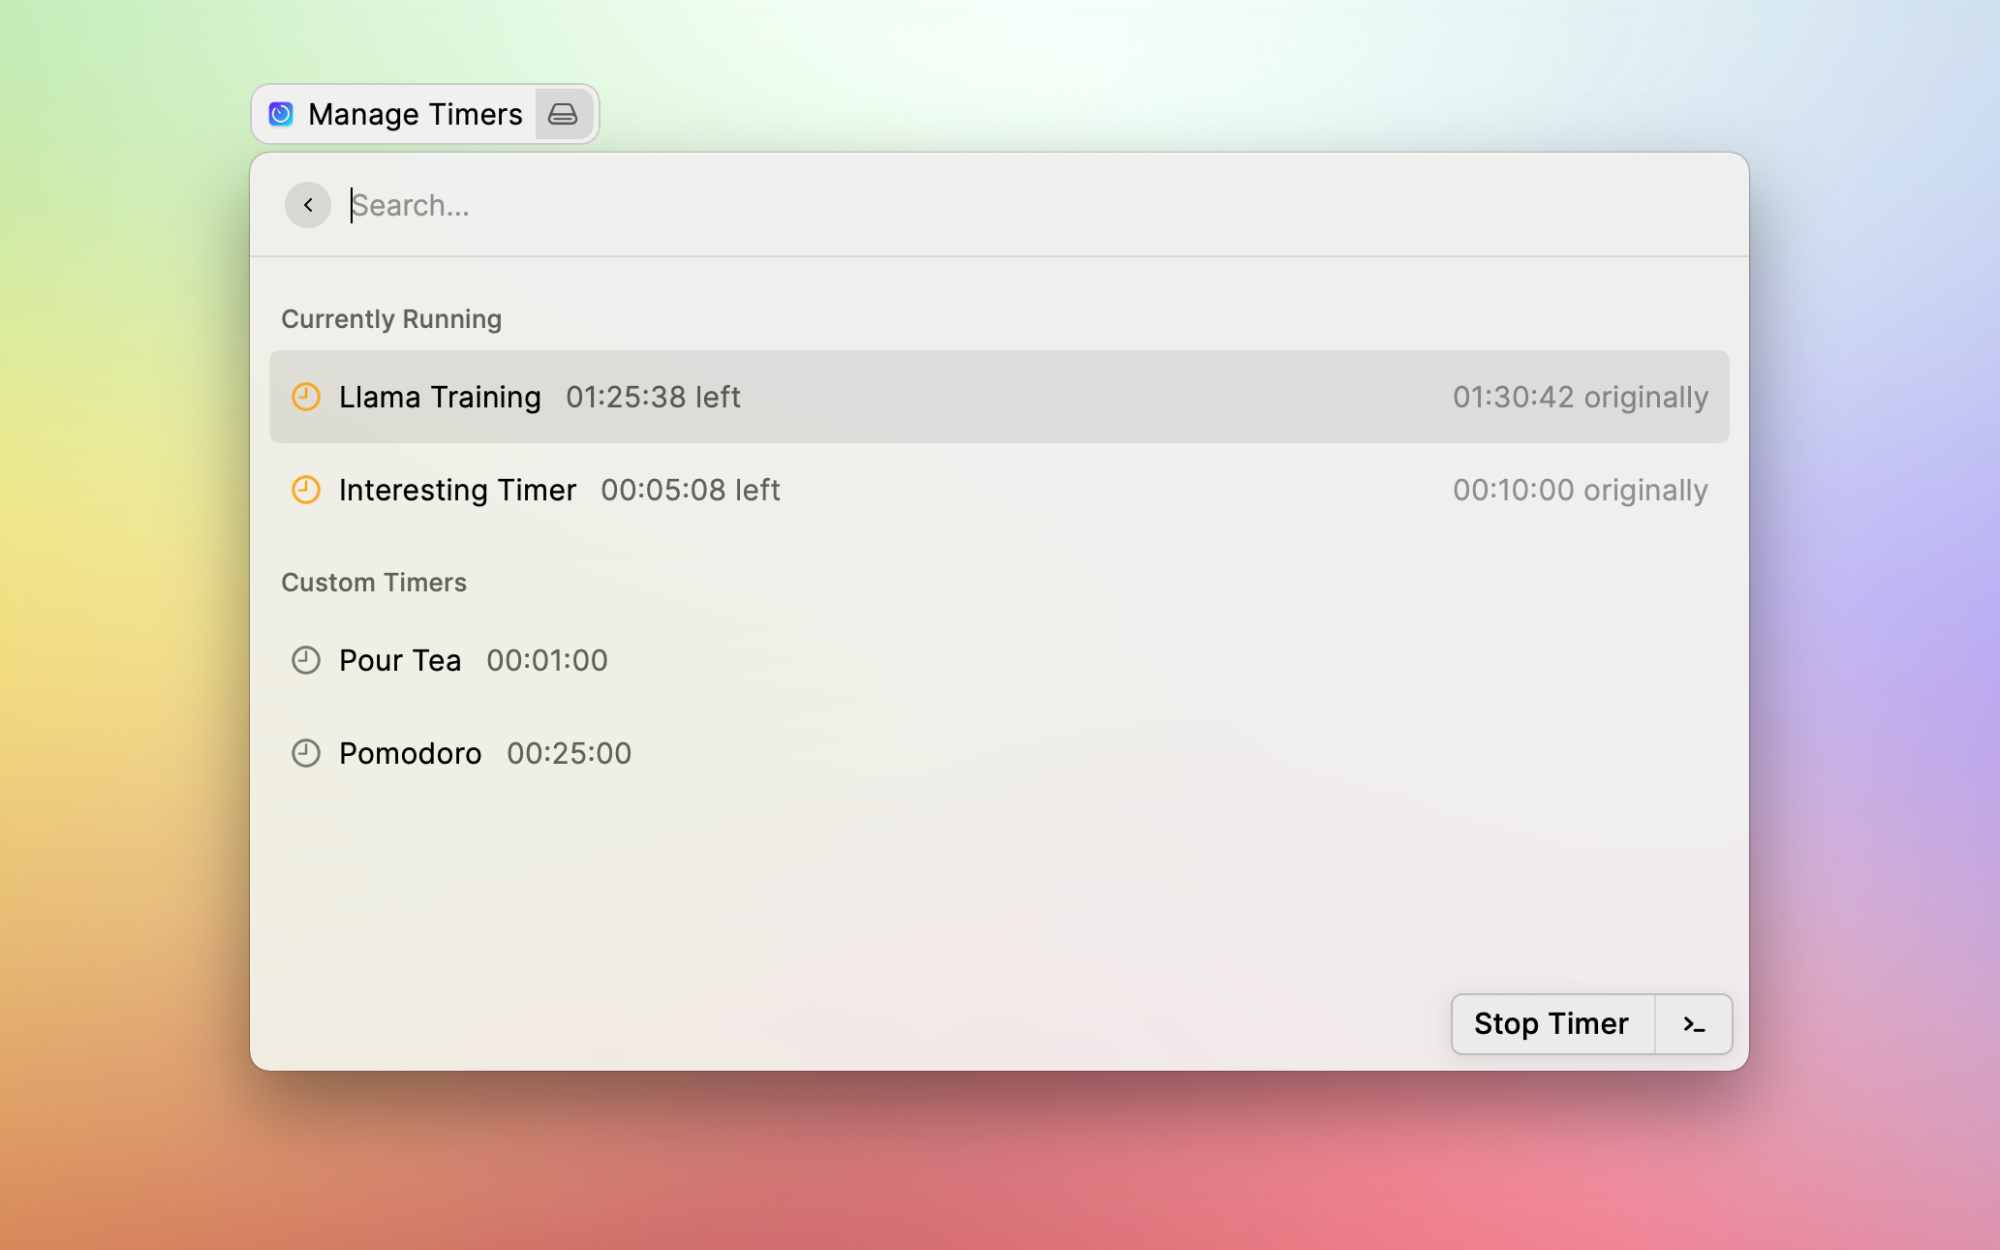
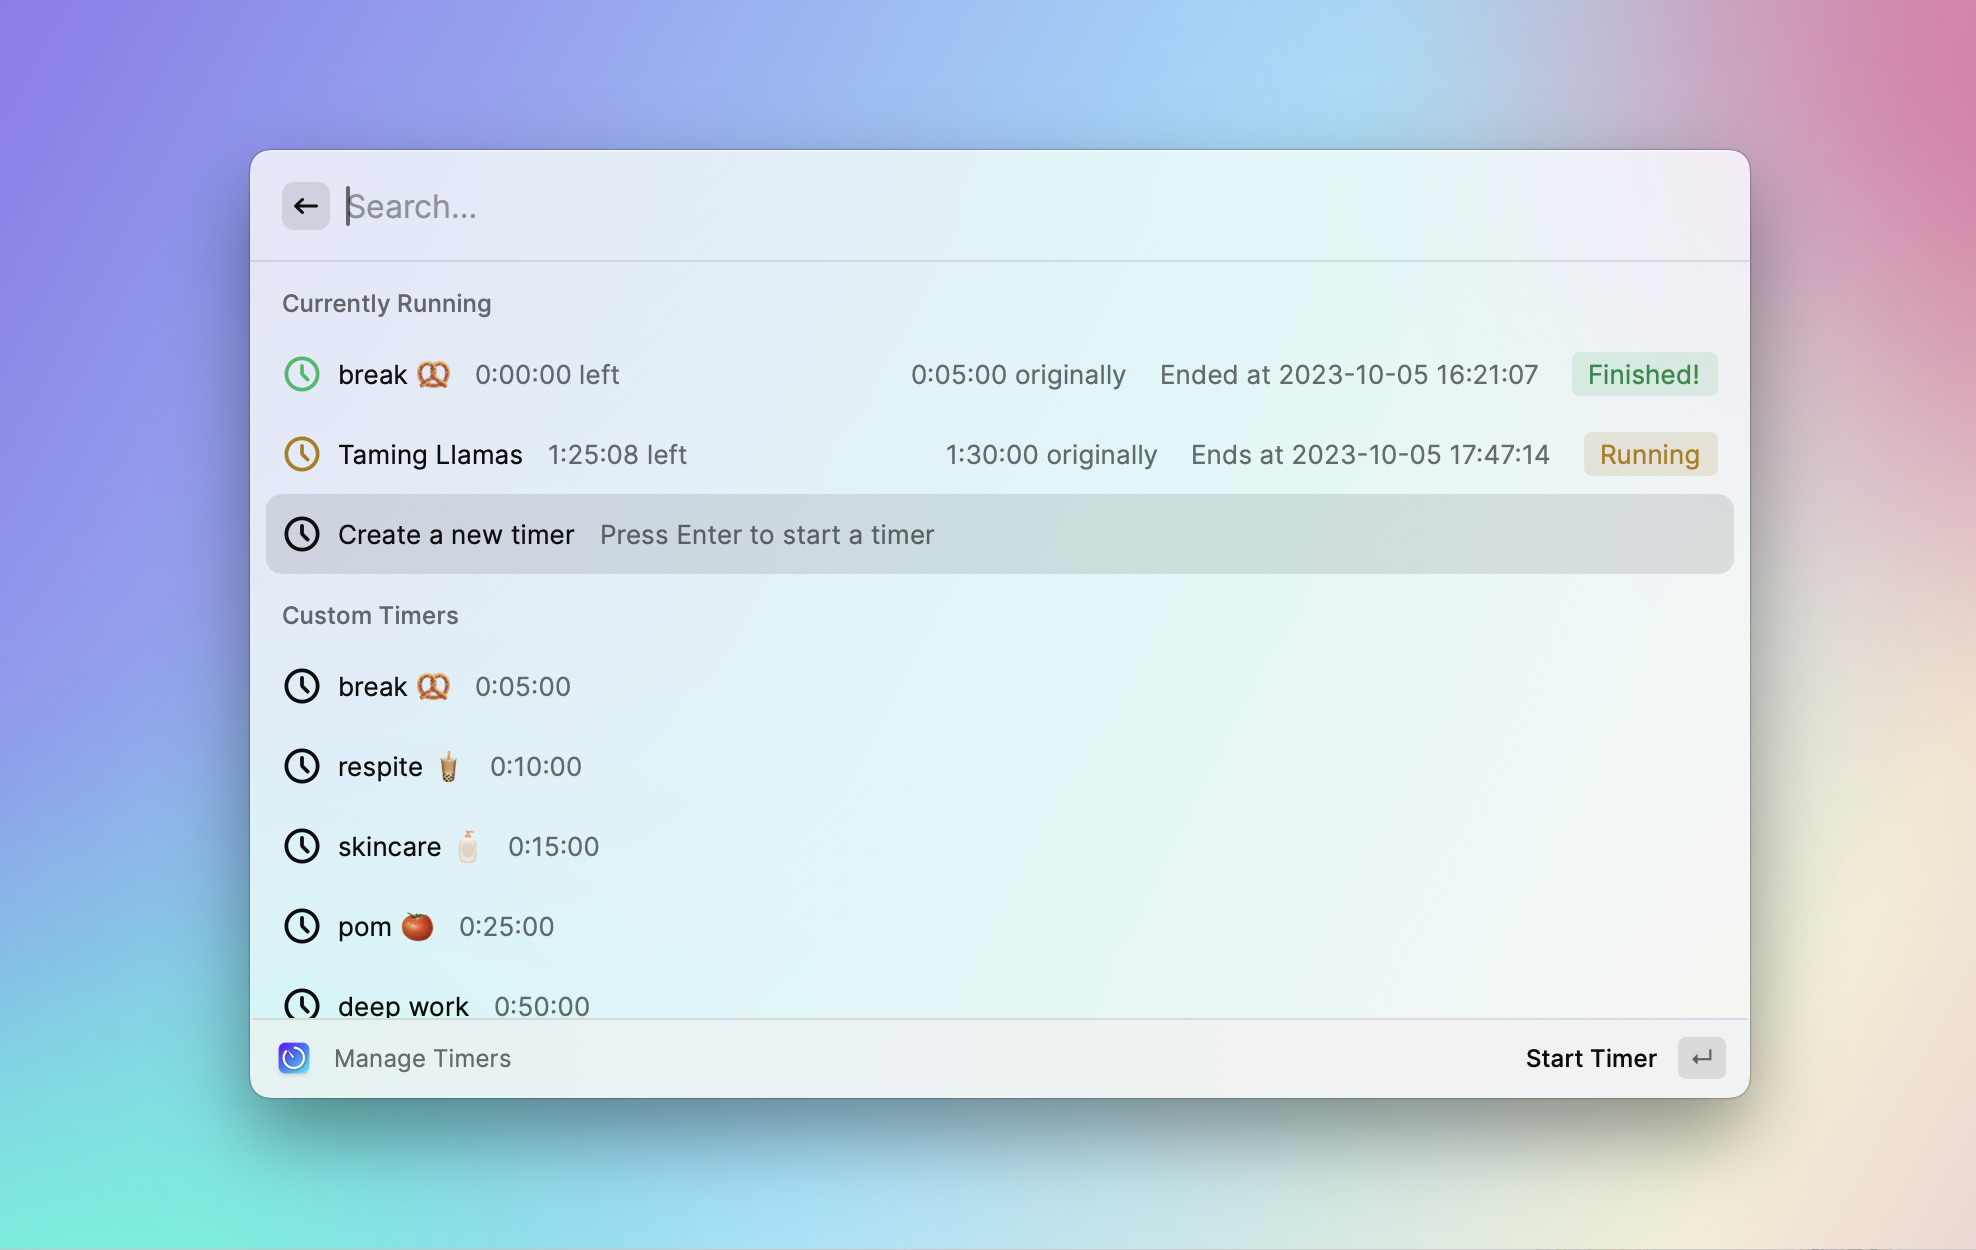
feat: new screenshots, stopRunningTimer cmd, changelog update

diff --git a/src/timerUtils.ts b/src/timerUtils.ts
@@ -62,7 +62,8 @@ async function startTimer(timeInSeconds: number, timerName = "Untitled", selecte
 }
 
 function stopTimer(timerFile: string) {
-  const deleteTimerCmd = `if [ -f "${timerFile}" ]; then rm "${timerFile}"; else echo "Timer deleted"; fi`;
+  const timerFilePath = environment.supportPath + "/" + timerFile;
+  const deleteTimerCmd = `if [ -f "${timerFilePath}" ]; then rm "${timerFilePath}"; else echo "Timer deleted"; fi`;
   const dismissFile = timerFile.replace(".timer", ".dismiss");
   const deleteDismissCmd = `if [ -f "${dismissFile}" ]; then rm "${dismissFile}"; else echo "Timer deleted"; fi`;
   execSync(deleteTimerCmd);

diff --git a/src/stopRunningTimer.ts b/src/stopRunningTimer.ts
@@ -1,0 +1,15 @@
+import { closeMainWindow, showHUD, showToast, Toast } from "@raycast/api";
+import { getTimers, stopTimer } from "./timerUtils";
+
+export default async () => {
+  const timers = getTimers();
+  if (timers.length === 0) {
+    return await showToast({
+      style: Toast.Style.Failure,
+      title: "No timers found!",
+    });
+  }
+  stopTimer(timers[0].originalFile);
+  await closeMainWindow();
+  showHUD(`Timer "${timers[0].name}" stopped!`);
+};

diff --git a/src/hooks/useTimers.ts b/src/hooks/useTimers.ts
@@ -1,4 +1,3 @@
-import { environment } from "@raycast/api";
 import { useState } from "react";
 import {
   checkForOverlyLoudAlert,
@@ -34,7 +33,7 @@ export default function useTimers() {
 
   const handleStopTimer = (timer: Timer) => {
     setTimers(timers?.filter((t: Timer) => t.originalFile !== timer.originalFile));
-    stopTimer(`${environment.supportPath}/${timer.originalFile}`);
+    stopTimer(timer.originalFile);
     refreshTimers();
   };
 

diff --git a/README.md b/README.md
@@ -21,8 +21,9 @@ _Note: if you do not receive notifications from the timer completion, you may ne
 - [x] Manage Timers (view/rename/start/stop running or preset countdown timers)
 - [x] Start Stopwatch
 - [x] Manage Stopwatches (view/start/stop running stopwatches)
-- [x] Dismiss Timer (stop a ringing alert for a finished timer, if you've checked the Ring Continously setting)
+- [x] Dismiss Ringing Timer (stop a ringing alert for a finished timer, if you've checked the Ring Continously setting)
 - [x] Preview Alert Sounds (test out the bundled timer alert sounds before selecting one in settings)
+- [x] Stop Running Timer (stop the running timer closest to completion)
 
 ### Not Yet Implemented
 

diff --git a/changelog.md b/changelog.md
@@ -1,5 +1,12 @@
 # Timers Changelog
 
+## [Fix dismiss command, add "Stop Running Timer" command, screenshot update] - 2023-11-05
+
+- Fix bug where "Dismiss Timer Alert" would crash due to improper filtering of running timers
+- Rename "Dismiss Timer Alert" to "Dismiss Ringing Timer" to clarify what the command actually does
+- Add "Stop Running Timer" command to easily stop the timer closest to completion
+- Update screenshots to reflect newer UI and Raycast versions
+
 ## [Stopwatch menu bar improvements, minor UX fixes] - 2023-09-30
 
 - Add ability to delete stopwatches from menu bar
